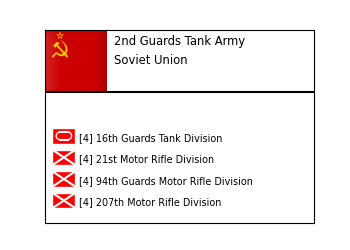
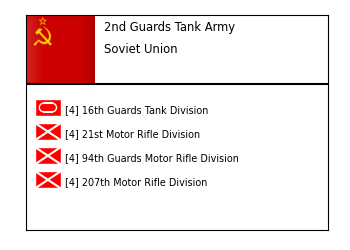
tight layout on corps cards

Changed region(s): [[0.0571, 0.056, 0.9429, 0.84], [0.0571, 0.868, 0.9429, 0.924]]

diff --git a/breakthrough/corps.py b/breakthrough/corps.py
@@ -227,27 +227,27 @@ for unit in gen:
         size = child.size.value
         ax.text(
             .45,
-            1.1 - .28 * i,
+            1.4 - .28 * i,
             f"[{size}] {child}",
             ha='left',
             va='center',
             fontsize="x-small"
         )
         ax.add_patch(patches.Rectangle(
-            (.1, 1.025 - .28 * i),
+            (.1, 1.325 - .28 * i),
             .3,
             .2,
             edgecolor="w",
             facecolor=unit.color,
         ))
         if child.type == infantry:
-            plt.plot([.1, .4], [1.025 - .28 * i, 1.225 - .28 * i], color="w")
-            plt.plot([.1, .4], [1.225 - .28 * i, 1.025 - .28 * i], color="w")
+            plt.plot([.1, .4], [1.325 - .28 * i, 1.525 - .28 * i], color="w")
+            plt.plot([.1, .4], [1.525 - .28 * i, 1.325 - .28 * i], color="w")
         elif child.type == armor:
-            plt.plot([.2, .3], [1.075 - .28 * i, 1.075 - .28 * i], color="w")
-            plt.plot([.2, .3], [1.175 - .28 * i, 1.175 - .28 * i], color="w")
+            plt.plot([.2, .3], [1.375 - .28 * i, 1.375 - .28 * i], color="w")
+            plt.plot([.2, .3], [1.475 - .28 * i, 1.475 - .28 * i], color="w")
             ax.add_patch(patches.Arc(
-                (.2, 1.125 - .28 * i),
+                (.2, 1.425 - .28 * i),
                 .1,
                 .1,
                 theta1=90,
@@ -255,7 +255,7 @@ for unit in gen:
                 color="w"
             ))
             ax.add_patch(patches.Arc(
-                (.3, 1.125 - .28 * i),
+                (.3, 1.425 - .28 * i),
                 .1,
                 .1,
                 theta1=270,
@@ -268,4 +268,5 @@ for unit in gen:
     plt.ylim(0, 2.5)
     ax.set_xticks([])
     ax.set_yticks([])
+    plt.tight_layout()
     plt.savefig(f"{os.path.join(image_path, unit.name)}.png")
